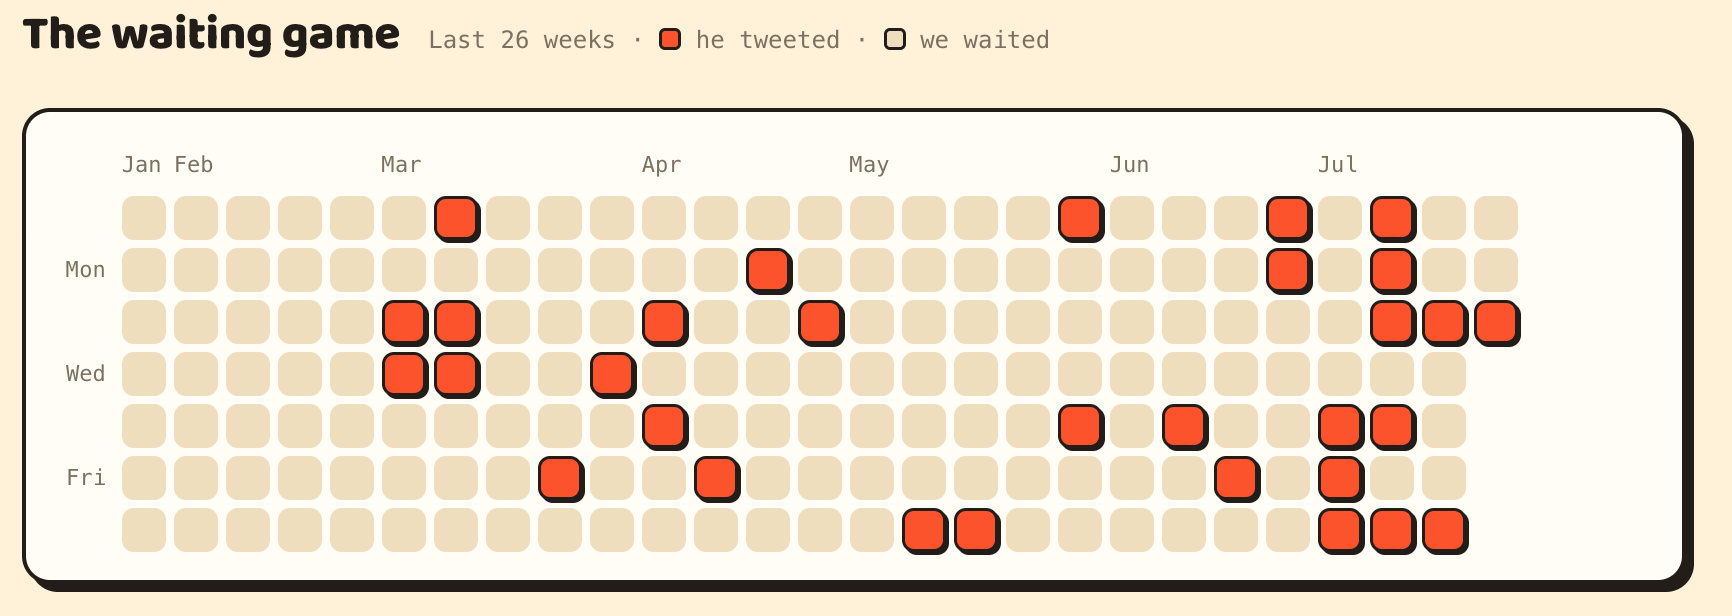
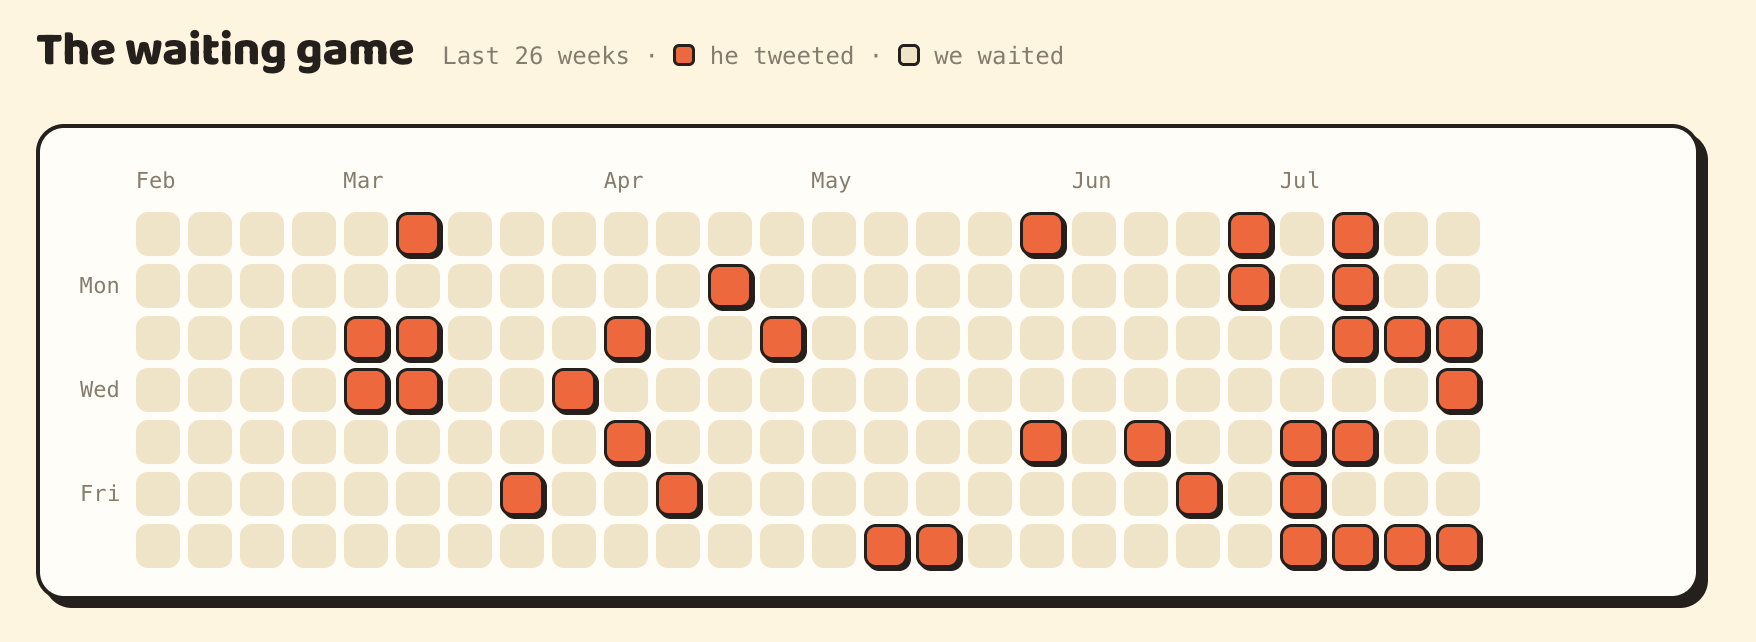
docs: update Codex guide and cost analysis

diff --git a/docs/plus-relay-cost-analysis.md b/docs/plus-relay-cost-analysis.md
@@ -1,0 +1,148 @@
+# Codex 周额度理论倍率、临界倍率与中转站性价比对比
+
+> 更新时间：2026 年 8 月 1 日
+> 适用前提：能够把官方 Plus 的周额度基本用满。额度用不完时，应按实际用量重新计算。
+
+[返回 README 第十章：Codex 周额度理论倍率与中转站性价比对比](../README.md#十codex-周额度理论倍率与中转站性价比对比)
+
+## 先看结论
+
+本文优先使用历史平均值判断长期性价比，而不是直接套用某一个特别高或特别低的月份。下面依次说明：历史平均、7 月单月、8 月当前进度，以及如何按照自己的实际需求查表。
+
+## 一、历史平均：最有代表性的长期口径
+
+### 连续统计方法
+
+历史平均不按每个月月初重新切断，而是从选定的起点开始连续追踪：
+
+- 从 2026 年 3 月 1 日 `00:00` 作为第一次自然重置开始；
+- 下一次自然重置按上一次重置之后 7 天计算；
+- 如果 7 天到来前出现官方提前重置，就计入这次提前重置，并把下一次自然重置顺延到它之后 7 天；
+- 一直统计到 2026 年 7 月 31 日结束，不在 6 月 1 日、7 月 1 日再次人为补一次自然重置。
+
+截图中的日期按人工方式核对，不把这套统计展开成复杂公式。
+
+### 2026 年 3 月 1 日至 7 月 31 日：45 倍周额度
+
+根据 [Codex Resets](https://codex-resets.com/) 的记录，按上述连续口径人工核对：
+
+从 2026 年 3 月 1 日到 7 月 31 日，连续统计享有 **45 倍周额度**。这不是把每个月分别重新计算后相加，而是沿着同一条重置时间线连续统计。
+
+| 月份 | 连续时间线中该月发生的重置时间点（自然 + 官方提前） |
+|---|---:|
+| 2026 年 3 月 | **9 倍** |
+| 2026 年 4 月 | **8 倍** |
+| 2026 年 5 月 | **7 倍** |
+| 2026 年 6 月 | **8 倍** |
+| 2026 年 7 月 | **13 倍** |
+| **合计** | **45 倍** |
+
+> 这里仅统计连续时间线落在各月份的重置时间点，包括自然重置和官方提前重置；不是每月重新起算。
+
+<p align="center">
+  <img src="images/codex-resets-2026-07.png" alt="Codex Resets 记录的 2026 年 3 月至 7 月额度重置情况" width="720">
+</p>
+
+<p align="center"><em>Codex Resets 记录的 2026 年 3 月至 7 月额度重置情况</em></p>
+
+按 3～7 月共 5 个月折算，平均每月：
+
+```text
+45 ÷ 5 = 9 倍周额度
+9 × 150 美元 = 1,350 美元 API 等值用量
+```
+
+### 按历史平均值计算 Plus 临界倍率
+
+Plus 月费按 `140 元人民币`计算，历史平均每月约有 `1,350 美元 API 等值用量`：
+
+```text
+140 元 ÷ 1,350 美元
+≈ 0.1037 元/美元
+```
+
+因此，按历史平均值判断，`0.1037` 左右是官方 Plus 与中转的临界点。额度能够基本用满时，中转倍率低于这个数更划算；用量不足时，应按实际用量重新计算。
+
+## 二、2026 年 7 月单月案例：14 倍周额度
+
+7 月是一次官方提前重置非常密集的特殊月份。这里单独按 7 月 1 日 `00:00` 重新起算，用来展示单月高峰情况；它不替代上面的历史平均口径。
+
+根据 [Codex Resets](https://codex-resets.com/) 的记录，7 月 Codex 官方提前重置了 12 次：
+
+| 时间段或事件 | 计入额度 |
+|---|---:|
+| 7 月 1 日 `00:00` ～ 7 月 8 日 `00:00` | 1 倍 |
+| 7 月 8 日 `00:00` ～ 7 月 9 日第一次官方提前重置前 | 1 倍 |
+| 7 月内 12 次官方提前重置 | 12 倍 |
+| **合计** | **14 倍** |
+
+<p align="center">
+  <img src="images/codex-resets-2026-07.png" alt="Codex Resets 记录的 2026 年 7 月额度重置情况" width="720">
+</p>
+
+<p align="center"><em>Codex Resets 记录的 2026 年 7 月额度重置情况</em></p>
+
+Plus 周额度按 `150 美元 API 等值用量`估算：
+
+```text
+14 × 150 美元 = 2,100 美元 API 等值用量
+```
+
+Plus 月费按 `140 元人民币`计算：
+
+```text
+140 元 ÷ 2,100 美元
+≈ 0.0667 元/美元
+```
+
+| 中转倍率 | 购买 2,100 美元等值用量的成本 | 结论 |
+|---:|---:|---|
+| `0.03` | 63 元 | 中转更划算 |
+| `0.06` | 126 元 | 中转更划算 |
+| `0.0667` | 约 140 元 | 临界点 |
+| `0.07` | 147 元 | Plus 更划算 |
+| `0.08` | 168 元 | Plus 更划算 |
+
+## 三、2026 年 8 月当前进度
+
+8 月还没有结束，不能把当前进度当成整月最终结果，也不能拿它直接替代历史平均。
+
+截至 2026 年 8 月 1 日，8 月已经实际享有 2 倍周额度。即使后续不再发生官方提前重置，按当前月度口径，8 月整月至少也会有 6 倍；最终结果要等月底完整记录确认。
+
+## 四、按自己的实际需求查表
+
+先估算自己实际需要多少倍周额度，再查下面的换算表：
+
+```text
+Plus 临界倍率 = 140 ÷ (实际周额度倍数 × 150)
+20x Pro 理论临界倍率 = Plus 临界倍率 ÷ 2
+```
+
+> 说明：完整自然月正常至少有 4 倍周额度；1～3 倍主要用于低用量用户根据自己的实际需求查表。
+
+| 实际周额度倍数 | API 等值额度（美元） | Plus 临界倍率 | 20x Pro 理论临界倍率 |
+|---:|---:|---:|---:|
+| 1 | 150 | `0.9333` | `0.4667` |
+| 2 | 300 | `0.4667` | `0.2333` |
+| 3 | 450 | `0.3111` | `0.1556` |
+| 4 | 600 | `0.2333` | `0.1167` |
+| 5 | 750 | `0.1867` | `0.0933` |
+| 6（2026 年 8 月至少） | 900 | `0.1556` | `0.0778` |
+| 7 | 1,050 | `0.1333` | `0.0667` |
+| 8 | 1,200 | `0.1167` | `0.0583` |
+| 9（2026 年 3～7 月连续平均） | 1,350 | `0.1037` | `0.0519` |
+| 10 | 1,500 | `0.0933` | `0.0467` |
+| 11 | 1,650 | `0.0848` | `0.0424` |
+| 12 | 1,800 | `0.0778` | `0.0389` |
+| 13 | 1,950 | `0.0718` | `0.0359` |
+| 14（2026 年 7 月实际） | 2,100 | `0.0667` | `0.0333` |
+| 15 | 2,250 | `0.0622` | `0.0311` |
+
+## 五、20x Pro 理论参考
+
+按“月费是 Plus 的 10 倍、周额度是 20 倍”的理论口径，20x Pro 的临界倍率正好是 Plus 的一半：
+
+- 按 3～7 月平均 9 倍周额度计算，理论临界倍率约为 `0.0519` 元/美元；
+- 按 7 月实际 14 倍周额度计算，理论临界倍率约为 `0.0333` 元/美元。
+
+但 Pro 更难在每次重置前把额度用满。若实际用量不足，应按“月费 ÷ 实际用量”重新计算，真实临界倍率会高于表中的理论值。
